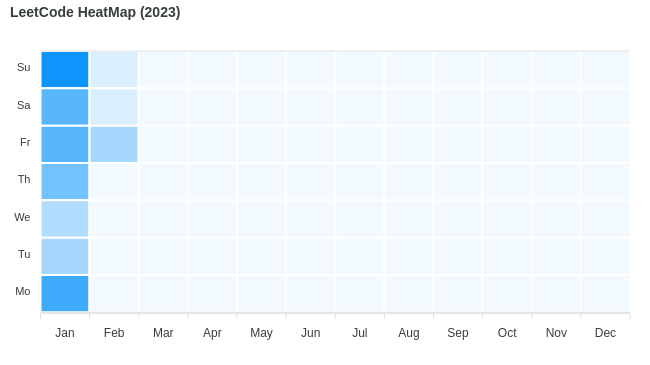
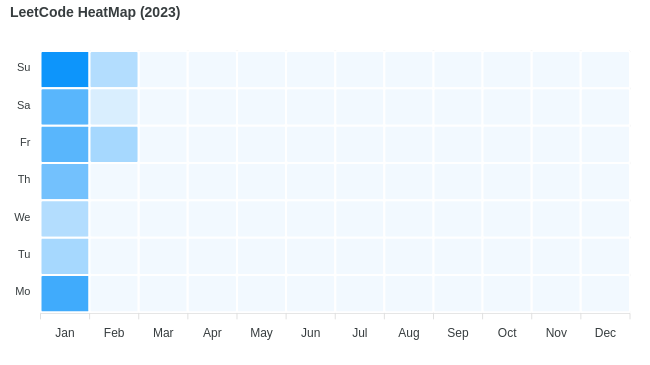
update heatmap.png

Changed region(s): [[0.1231, 0.1205, 0.2154, 0.2411]]

diff --git a/README.md b/README.md
@@ -4,7 +4,7 @@
 
 Collection of LeetCode questions to ace the coding interview! - Created using [LeetHub](https://github.com/QasimWani/LeetHub)
 
-> Questions solved 277 uniq: 109
+> Questions solved 280 uniq: 109
 
 ## Contribution 
 
